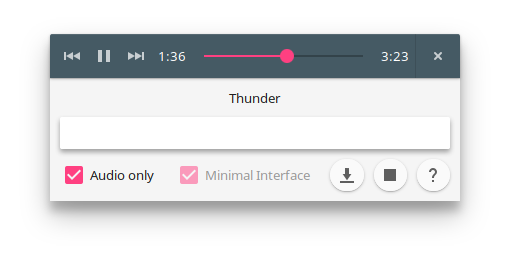
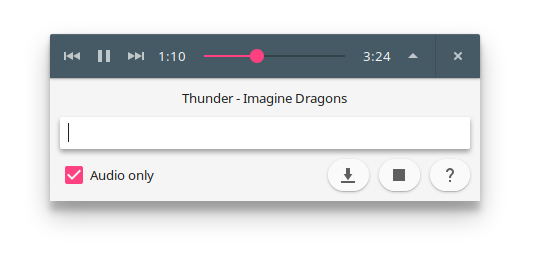
Bug fixes

diff --git a/youtubeplayer.py b/youtubeplayer.py
@@ -25,9 +25,10 @@ class YouTubePlayer(Gtk.Window) :
     def __init__(self) :
 
         self.AUDIO_ONLY = False
-        self.MINIMAL_INTERFACE = True
+        self.MINIMAL_INTERFACE = False
         self.player = instance.media_player_new()
         self.playlistThread = None
+        self.ALL_SHOWN =True
         self.vidNo = 0
         self.clickCounter = 0
         self.playList=[]
@@ -39,8 +40,8 @@ class YouTubePlayer(Gtk.Window) :
         self.title = None
         ##
         Gtk.Window.__init__(self)
-        self.set_border_width(10)
-        self.set_size_request(100, 100)
+        #self.set_border_width(10)
+        self.set_size_request(520, 100)
 
         #Title bar tweaks
         headerBar = Gtk.HeaderBar()
@@ -52,18 +53,24 @@ class YouTubePlayer(Gtk.Window) :
 
         ####################################################################
         ## Main Box: All widgets are inside this
-        mainBox = Gtk.Box(orientation=Gtk.Orientation.VERTICAL,spacing=10)
+        superBox = Gtk.Box(orientation=Gtk.Orientation.VERTICAL)
+        self.add(superBox)
+        self.mainBox = Gtk.Box(orientation=Gtk.Orientation.VERTICAL,spacing=10)
+        self.mainBox.set_property('margin', 10)
+        self.mainBox.set_size_request(400,100)
+
         ##
 
         ###Video box
         self.videoEventbox = Gtk.EventBox()
-        #self.videoEventbox.set_property("margin", 0)
+        self.videoEventbox.set_property("margin", 0)
         self.video = Gtk.DrawingArea()
-        self.video.set_size_request(500, 300)
+        self.video.set_size_request(500, 250)
         self.video.connect('realize', self._realized)
         self.videoEventbox.add(self.video)
 
-        mainBox.pack_start(self.videoEventbox, True, True, 0)
+        superBox.pack_start(self.videoEventbox, True, True, 0)
+        superBox.pack_start(self.mainBox, True, True, 0)
 
         ###
 
@@ -71,13 +78,13 @@ class YouTubePlayer(Gtk.Window) :
 
         self.infoLabel = Gtk.Label("YouTubePlayer")
         self.infoLabel.set_line_wrap(True)
-        mainBox.pack_start(self.infoLabel, True, True, 0)
+        self.mainBox.pack_start(self.infoLabel, True, True, 0)
         #
 
         #Input box
         self.entry = Gtk.Entry()
         self.entry.set_placeholder_text("URL")
-        mainBox.pack_start(self.entry, True, True, 0)
+        self.mainBox.pack_start(self.entry, True, True, 0)
 
 
         #############################################################
@@ -85,18 +92,19 @@ class YouTubePlayer(Gtk.Window) :
         #
         #Check box
         checkButtonBox = Gtk.Box(spacing=10)
-        mainBox.pack_start(checkButtonBox, True, True, 0)
-        self.audioOnlyButton = Gtk.CheckButton("Audio only")
+        self.mainBox.pack_start(checkButtonBox, True, True, 0)
+        self.audioOnlyButton = Gtk.CheckButton("Audio only                                            ")
         self.audioOnlyButton.connect('toggled', self.audioOnly)
         checkButtonBox.pack_start(self.audioOnlyButton, True, True,0)
 
         self.mininalInterfaceButton = Gtk.CheckButton("Minimal interface")
-        self.mininalInterfaceButton.set_active(True)
+        #self.mininalInterfaceButton.set_active(True)
         self.mininalInterfaceButton.connect('toggled', self._mininalInterface)
-        checkButtonBox.pack_start(self.mininalInterfaceButton, True, True,0)
+        #checkButtonBox.pack_start(self.mininalInterfaceButton, True, True,0)
 
         #Download and info Box
         dliBox = Gtk.Box(spacing=10)
+        dliBox.set_size_request(50, 10)
         checkButtonBox.pack_start(dliBox, True, True, 0)
 
         #Download button
@@ -125,7 +133,6 @@ class YouTubePlayer(Gtk.Window) :
 
         self.buttonBox = Gtk.Box(orientation=Gtk.Orientation.HORIZONTAL)
         Gtk.StyleContext.add_class(self.buttonBox.get_style_context(), "linked")
-        self.add(mainBox)
 
         #Previous button
         img = Gtk.Image.new_from_gicon(Gio.ThemedIcon(name="media-skip-backward-symbolic"), Gtk.IconSize.BUTTON)
@@ -146,10 +153,10 @@ class YouTubePlayer(Gtk.Window) :
         self.buttonBox.pack_start(self.nextButton, True, True, 0)
 
         #Show all button
-        img = Gtk.Image.new_from_gicon(Gio.ThemedIcon(name="pan-down"), Gtk.IconSize.BUTTON)
+        img = Gtk.Image.new_from_gicon(Gio.ThemedIcon(name="pan-up-symbolic"), Gtk.IconSize.BUTTON)
         self.showAllButton = Gtk.Button(image=img)
         self.showAllButton.connect('clicked', self.showAllClicked)
-        mainBox.pack_end(self.showAllButton, True, True, 0)
+        headerBar.pack_end(self.showAllButton)
 
 
         adj = Gtk.Adjustment(0.0, 0.0, 100.0, 1.0, 10.0, 10.0)
@@ -181,12 +188,6 @@ class YouTubePlayer(Gtk.Window) :
         self.mpris.pl = self
         bus = SessionBus()
         bus.publish('org.mpris.MediaPlayer2.YouTubePlayer', self.mpris, ("/org/mpris/MediaPlayer2", self.mpris) )
-        loop = GLib.MainLoop()
-        '''
-        mprisThread = threading.Thread(target=loop.run)
-        mprisThread.setDaemon(True)
-        mprisThread.start()
-        '''
         ##
 
 
@@ -198,11 +199,21 @@ class YouTubePlayer(Gtk.Window) :
         self.currentTime.hide()
         self.totalTime.hide()
         self.videoEventbox.hide()
-        self.showAllButton.hide()
 
     def showAllClicked(self, widget) :
-        self.show_all()
-        self.showAllButton.hide()
+        if self.ALL_SHOWN :
+            img = Gtk.Image.new_from_gicon(Gio.ThemedIcon(name="pan-down-symbolic"), Gtk.IconSize.BUTTON)
+            widget.set_image(img)
+            self.mainBox.hide()
+            self.ALL_SHOWN = False
+        else :
+            img = Gtk.Image.new_from_gicon(Gio.ThemedIcon(name="pan-up-symbolic"), Gtk.IconSize.BUTTON)
+            widget.set_image(img)
+            self.mainBox.show()
+            self.ALL_SHOWN = True
+            if self.AUDIO_ONLY:
+                self.videoEventbox.hide()
+
 
     def play(self, widget) :
         url = self.entry.get_text()
@@ -269,7 +280,6 @@ class YouTubePlayer(Gtk.Window) :
     def _realized(self, widget, data=None) :
         self.windowID = widget.get_window().get_xid()
 
-
     def _playPlaylist(self) :
         video = self.playList['items'][self.vidNo]['pafy']
         self._openVLCShell(video)
@@ -303,6 +313,7 @@ class YouTubePlayer(Gtk.Window) :
         if self.AUDIO_ONLY == True :
             self.set_resizable(False)
             self.videoEventbox.hide()
+            #self.showAllButton.hide()
             try :
                 audio_url = video.getbestaudio().url
             except OSError:
@@ -320,6 +331,7 @@ class YouTubePlayer(Gtk.Window) :
                 self.player.set_xwindow(self.windowID)
                 self.videoEventbox.show()
                 self.showAllButton.show()
+                '''
                 self.infoLabel.hide()
                 self.audioOnlyButton.hide()
                 self.downloadButton.hide()
@@ -327,6 +339,8 @@ class YouTubePlayer(Gtk.Window) :
                 self.mininalInterfaceButton.hide()
                 self.helpButton.hide()
                 self.stopButton.hide()
+                '''
+                self.mainBox.hide()
                 self.player.set_mrl(video_url)
                 self.player.play()
             else :
